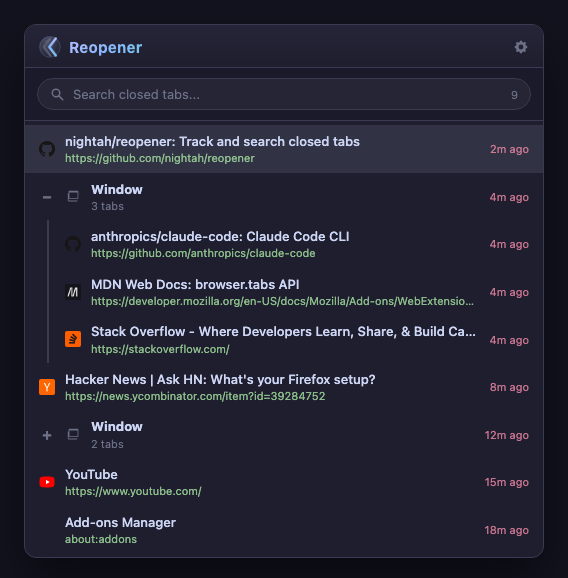
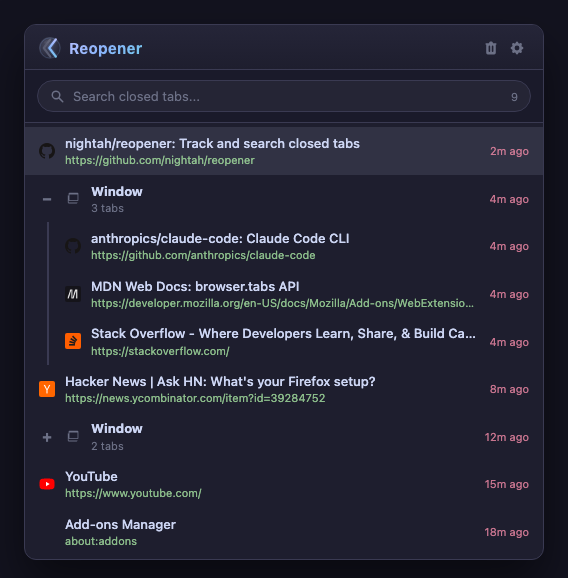
docs: refresh readme and screenshots

diff --git a/README.md b/README.md
@@ -34,6 +34,18 @@ Type to instantly filter by title or URL. Matching characters are highlighted an
 
 ![Fuzzy search filtering by "github"](screenshots/search.png)
 
+### Right-click menu
+
+Right-click any entry for a quick Open or Delete action.
+
+![Right-click context menu with Open and Delete](screenshots/context-menu.png)
+
+### Clearing history
+
+The trash icon opens a menu to clear everything, just the tabs matching your current search, or anything closed within the last few minutes.
+
+![Clear history dropdown menu](screenshots/clear-menu.png)
+
 ## Installation
 
 ### Firefox Add-ons (recommended)